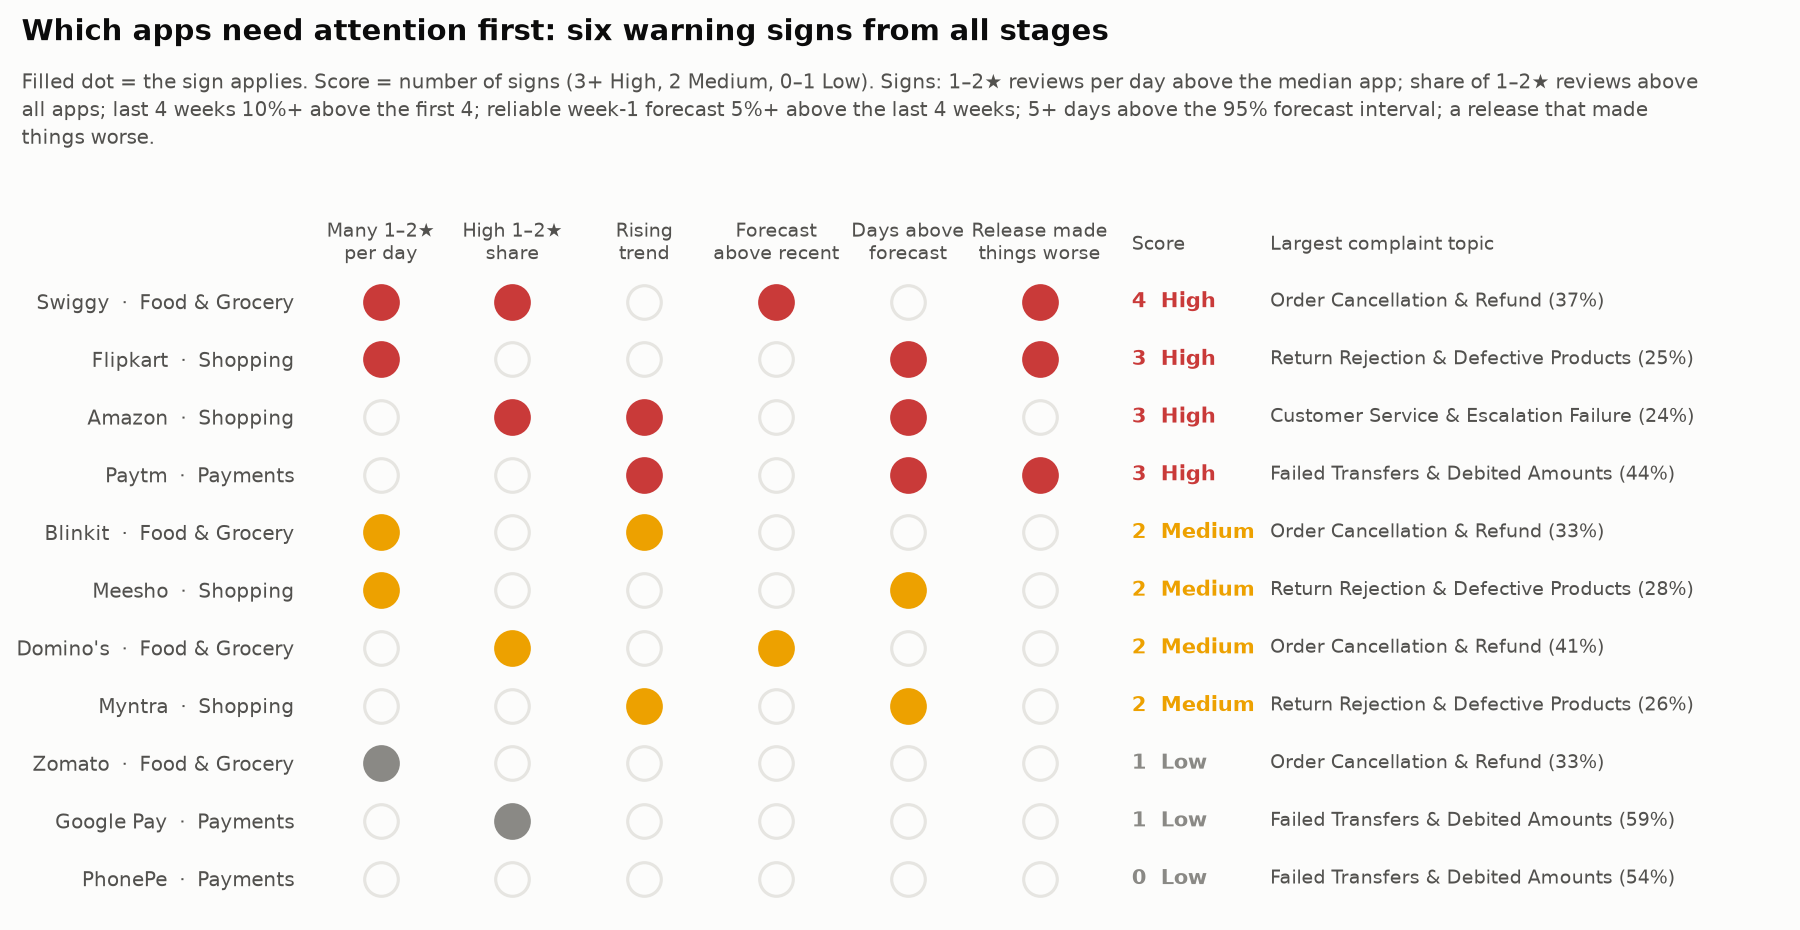
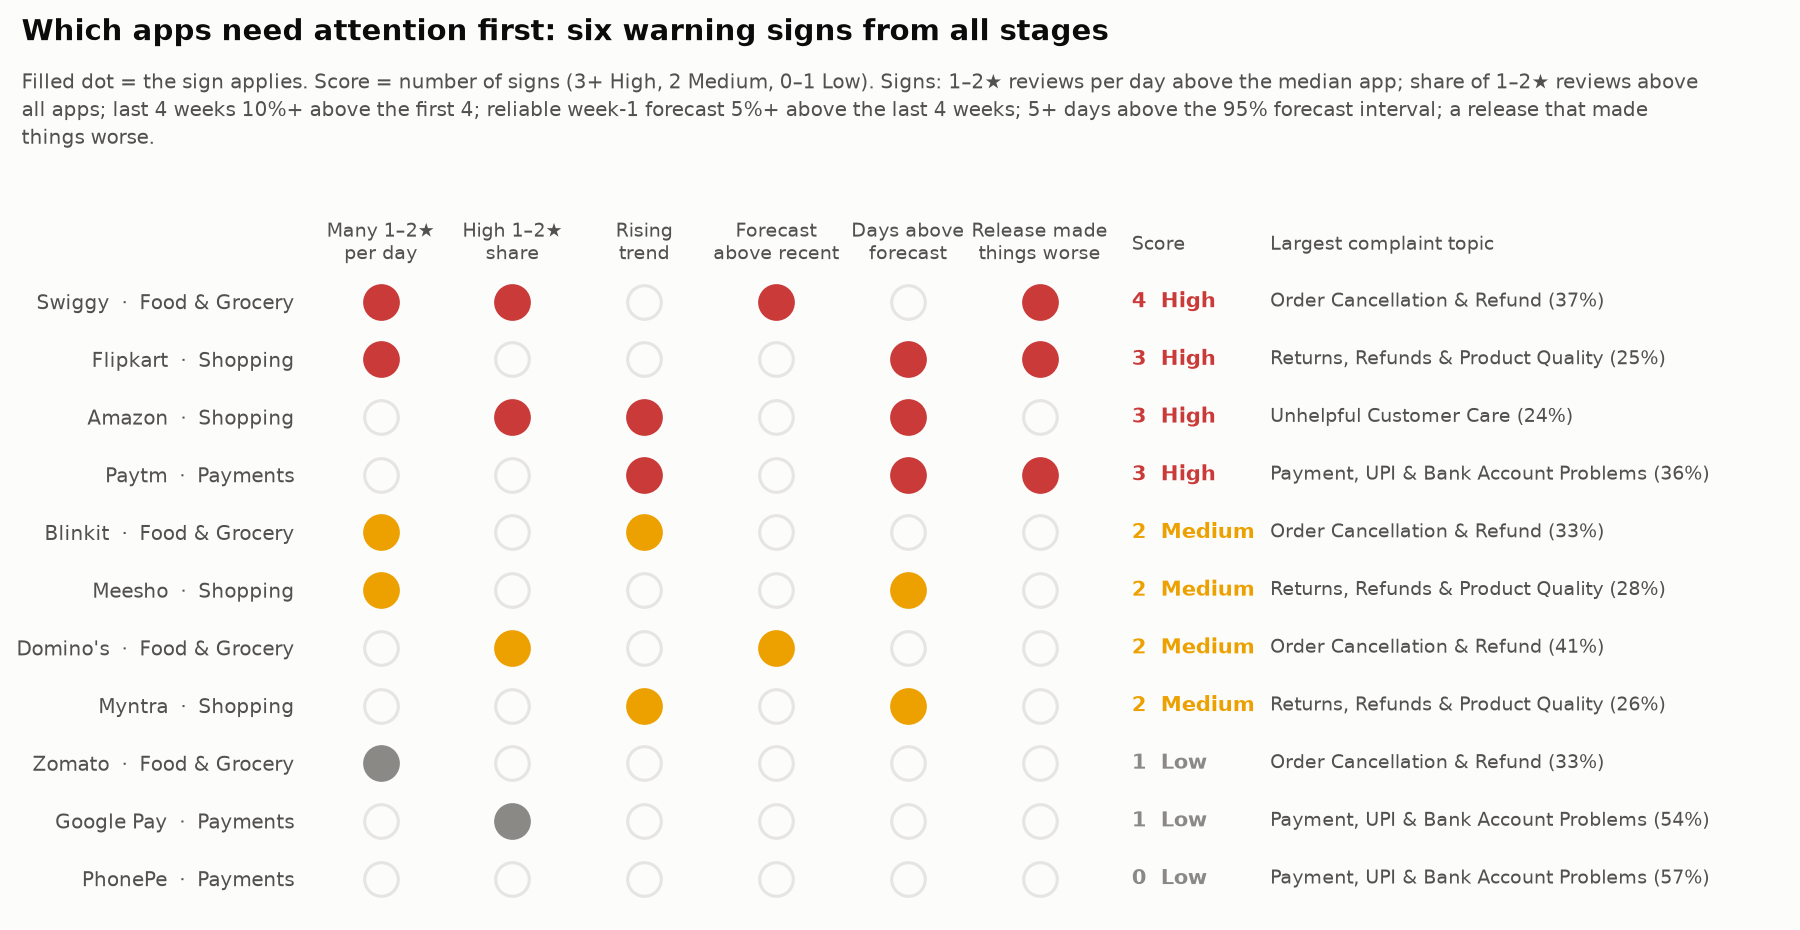
fix(insights): never pick a general-dissatisfaction topic as the one to fix
"Bad" and "worst ever" topics are the most negative by construction and name
no fault. "Fix first" and "most damaging" are now chosen among topics that
name a specific problem. Priorities and the 65 recommendations are unchanged.

diff --git a/scripts/22_combined_insights.py b/scripts/22_combined_insights.py
@@ -59,6 +59,10 @@ FORECAST_UP_PCT = 5        # week-1 forecast at least 5% above the last 4 weeks
 UNUSUAL_DAYS_MIN = 5       # at least 5 distinct days above the 95% forecast interval in the backtest
 UNRELIABLE_CHANGE_PCT = 30 # week-1 forecast this far from the last 4 weeks: read with care (Stage 3 rule)
 MIN_TOPIC_SHARE = 10       # a topic needs at least 10% of the app's complaints to be called its most severe
+# Topics made of general dissatisfaction words ("bad experience", "worst ever"; names from scripts/17_topic_modelling.py)
+# name no fault to fix, and they are the most negative by construction, so they are never picked as the complaint
+# to fix first or as the most damaging one. Their shares still count in every denominator.
+GENERAL_TOPICS = {"General Bad Service & Quality", "General Bad Experience", "Worst-Ever Experience"}
 PRIORITY_RULES = {
     "sig_high_volume": "1–2★ reviews per day above the median of the 11 apps",
     "sig_high_share": "share of 1–2★ reviews (feed-gap days excluded) above the all-app share",
@@ -135,8 +139,10 @@ def topics():
     m = share.merge(sent[["app_name", "topic_label", "mean_sentiment", "pct_strongly_neg"]], on=["app_name", "topic_label"], how="left")
     rows = {}
     for app, g in m.groupby("app_name"):
-        top = g.sort_values("share_pct", ascending=False).iloc[0]
-        sev = g[g["share_pct"] >= MIN_TOPIC_SHARE].sort_values("mean_sentiment").iloc[0]
+        specific = g[~g["topic_label"].isin(GENERAL_TOPICS)]
+        top = specific.sort_values("share_pct", ascending=False).iloc[0]
+        big_enough = specific[specific["share_pct"] >= MIN_TOPIC_SHARE]
+        sev = (big_enough if len(big_enough) else specific).sort_values("mean_sentiment").iloc[0]
         rows[app] = {"top_topic": top["topic_label"], "top_topic_share_pct": top["share_pct"],
                      "top_topic_sentiment": top["mean_sentiment"], "top_topic_strongly_neg_pct": top["pct_strongly_neg"],
                      "most_severe_topic": sev["topic_label"], "most_severe_topic_share_pct": sev["share_pct"],
@@ -277,14 +283,15 @@ def domain_recommendations(t):
     for dom in DOMAINS:
         d = t[t["domain"] == dom]
         s = sent[sent["domain"] == dom]
-        big = s.sort_values("reviews", ascending=False).iloc[0]
-        worst = s.sort_values("mean_sentiment").iloc[0]
+        specific = s[~s["dominant_topic_label"].isin(GENERAL_TOPICS)]
+        big = specific.sort_values("reviews", ascending=False).iloc[0]
+        worst = specific.sort_values("mean_sentiment").iloc[0]
         share = 100 * big["reviews"] / s["reviews"].sum()
         recs.append({"level": "Domain", "domain": dom, "app_name": "", "priority": "", "type": "Fix first",
                      "action": f"Across {dom}, '{big['dominant_topic_label']}' is the most common complaint; fix it in every app.",
                      "evidence": f"{share:.0f}% of the domain's topic-assigned 1–2★ reviews ({int(big['reviews']):,}); sentiment {big['mean_sentiment']:+.2f}"})
         recs.append({"level": "Domain", "domain": dom, "app_name": "", "priority": "", "type": "Most damaging",
-                     "action": f"'{worst['dominant_topic_label']}' produces the angriest reviews in {dom}.",
+                     "action": f"'{worst['dominant_topic_label']}' produces the angriest reviews about a specific fault in {dom}.",
                      "evidence": f"Mean sentiment {worst['mean_sentiment']:+.2f}; {worst['pct_strongly_neg']:.0f}% strongly negative"})
         hi = d[d["priority"] == "High"]["app_name"].tolist()
         lead = d.sort_values("neg_per_day", ascending=False).iloc[0]
